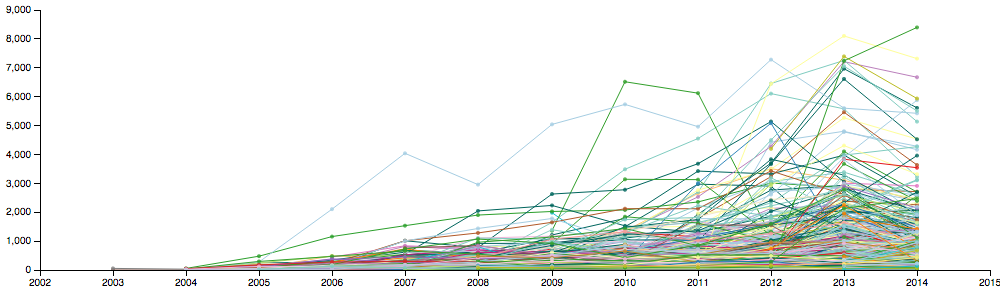
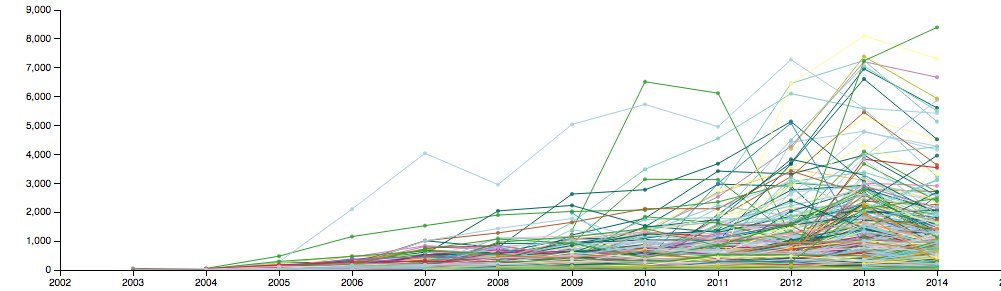
first try on category timeline: still broken

diff --git a/templates/index.html b/templates/index.html
@@ -63,6 +63,9 @@
 
   var limit_timeline = 100;
 
+  var margin_timelines_left = 60;
+  var margin_timelines_top = 30;
+
   /* Global for reset-buttons */
   var categoriesYearChart = dc.seriesChart('#categories-year-chart');
   var evolutionYearChart  = dc.seriesChart('#evolution-year-chart');
@@ -196,17 +199,16 @@
 
     meetup.categories.cf = crossfilter(categories_by_year);
     
-    meetup.categories.id_dim   = meetup.evolution.cf.dimension(function(d) { return d.name_group });
-    meetup.categories.id_group = meetup.evolution.id_dim.group().reduceCount();
+    meetup.categories.id_dim   = meetup.categories.cf.dimension(function(d) { return d.name_group });
+    meetup.categories.id_group = meetup.categories.id_dim.group().reduceCount();
 
     meetup.categories.category_and_year_dim   = meetup.categories.cf.dimension(function(d) { return [d.name_category, d.year]; });
     meetup.categories.category_and_year_group = meetup.categories.category_and_year_dim.group().reduceSum(function(d) { return d.sum; })
 
 
     log("creating chart for evolution by year");
-    evolutionYearChart.width(1000).height(300)
+    evolutionYearChart.width(1000).height(300).margins({top: margin_timelines_top, right: 10, bottom: 30, left: margin_timelines_left})
     .chart(function(c) { return dc.lineChart(c).interpolate('linear').renderArea(0).renderDataPoints(1).dotRadius(5); })
-    .margins({top: 10, right: 10, bottom: 30, left: 40})
     .brushOn(0)
     .dimension(meetup.evolution.group_and_year_dim)
     .group(meetup.evolution.group_and_year_group)
@@ -224,17 +226,17 @@
       chart.selectAll("g.dc-tooltip circle").attr("class", function(d){ return "category " + category_for_group[ d.data.key[0]  ]; })
     })
     
-    categoriesYearChart.width(1000).height(100)
+    categoriesYearChart.width(1000).height(210)
+    .margins({top: margin_timelines_top, right: 10, bottom: 30, left: margin_timelines_left})
     .chart(function(c) { return dc.lineChart(c).interpolate('linear').renderArea(0).renderDataPoints(1).dotRadius(5); })
-    .margins({top: 10, right: 10, bottom: 30, left: 40})
-    .brushOn(0)
     .dimension(meetup.categories.category_and_year_dim)
     .group(meetup.categories.category_and_year_group)
+    .brushOn(0)
     .x(d3.time.scale().domain([timeline_start, timeline_end]).rangeRound([0, 10 * 90]))
-    .y(d3.scale.linear().domain([0, 9000]).range([190,0]))
+    .y(d3.scale.linear().domain([0, 200000]).range([200,0]))
     .elasticY(true)
     .title(function (d) { 
-      return meetup.groups.by_id( d.key[0] ).get("name_category") + ": " + d.value + " rsvps this year"; 
+      return d.key[0] + ": " + d.value + " rsvps in " + d.key[1].getFullYear(); 
     })
     .seriesAccessor(function(d) {return +d.key[0];})
     .keyAccessor(   function(d) {return +d.key[1];})
@@ -338,7 +340,7 @@
     dateCreatedChart
     .dimension(meetup.groups.created_dim)
     .group(meetup.groups.created_groups)
-    .width(1000).height(100).margins({top: 10, right: 10, bottom: 30, left: 40})
+    .width(1000).height(100).margins({top: margin_timelines_top, right: 10, bottom: 30, left: margin_timelines_left})
     .round(d3.time.day.round)
     .filterPrinter(function (filters) {
       var filter = filters[0];
@@ -377,7 +379,7 @@
   $('#loading').show();
   queue()
   .defer(d3.csv,   "/static/groups.csv")
-  .defer(d3.csv,   "/static/cat-time.csv")
+  .defer(d3.csv,   "/events/categories.csv")
   .defer(d3.csv,   "/events/time.csv?id_group[]=176399")
   .await(handle_csv);
   

diff --git a/index.py b/index.py
@@ -191,7 +191,7 @@ def event_time():
 
 @app.route('/events/categories.csv')
 def category_time():
-  df = pd.read_sql("SELECT * FROM categories_timeseries" , g.db)
+  df = pd.read_sql("SELECT * FROM categories_timeseries ORDER BY name_category,time_bin" , g.db)
   return Response(df.to_csv(index=False), mimetype='text/plain')
 
 
